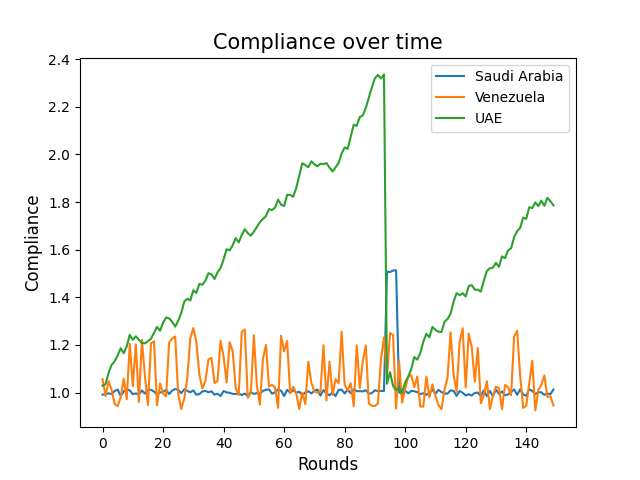
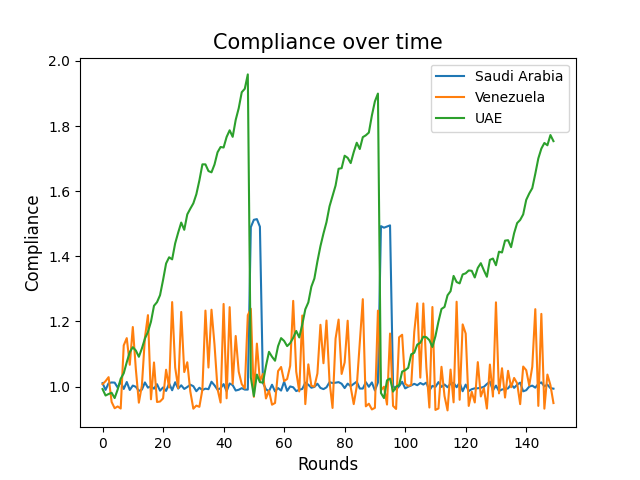
adjusted constants in main.py to be realistic

diff --git a/main.py b/main.py
@@ -3,10 +3,10 @@ import market
 import country
 import random
 
-SUPPLY_SENSITIVITY = 3   # how much the market price reacts to change in supply
-BASE_PRICE = 80         # equilibrium price when supply matches base demand
-BASE_SUPPLY = 10        # a million of barrels
-PROD_NOISE = 0.15
+SUPPLY_SENSITIVITY = 8   # how much the market price reacts to change in supply
+BASE_PRICE = 75         # equilibrium price when supply matches base demand
+BASE_SUPPLY = 16        # a million of barrels
+PROD_NOISE = 0.1
 
 ROUNDS = 150
 

diff --git a/strategies.py b/strategies.py
@@ -36,11 +36,12 @@ def play_enforce(country, market_state):
     return country.quota * 1.5
 
 def play_desperate(country, market_state):
-    if market_state.price > country.kwargs['budget_price']:
+    if market_state.round == 0:
         return country.quota
-    return country.quota * 1.2
 
-def play_passive(country, market_state):
+    #if market_state.price >= country.kwargs[]
+
+def play_passive(country):
     return country.quota
 
 strategy_dict = {